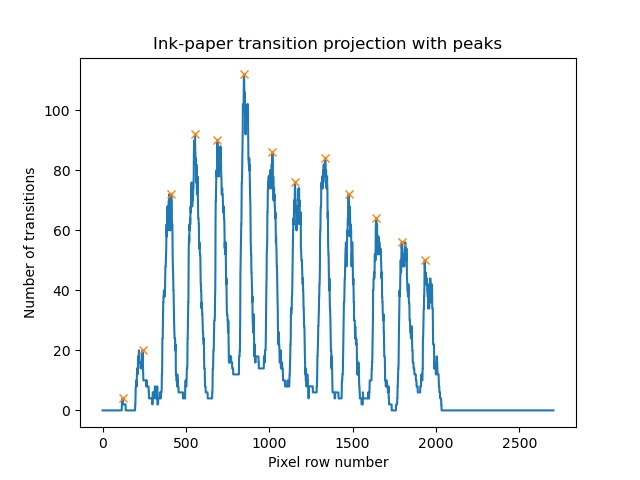
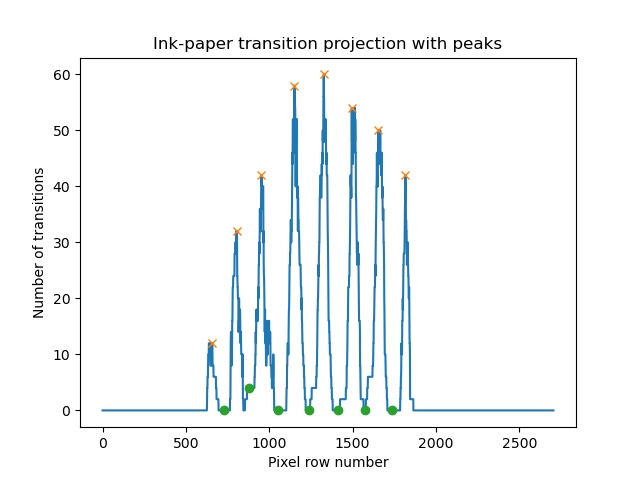
Finding minima through simple heuristic.

diff --git a/Preprocessor/line_segmenter.py b/Preprocessor/line_segmenter.py
@@ -16,6 +16,7 @@ def binarize_image(image):
     :param image: cv2 (opencv-python) image.
     :return: binarized cv2 image.
     """
+
     blur = cv2.GaussianBlur(img, (5, 5), 0)
     ret3, result = cv2.threshold(blur, 0, 255, cv2.THRESH_BINARY + cv2.THRESH_OTSU)
     return result
@@ -27,30 +28,46 @@ def count_transistions(row):
     :param row: row in binarized image.
     :return: number of transitions in row.
     """
+
     return len(np.argwhere(np.diff(row)).squeeze())
 
 
+def find_line_starts(projection):
+    """
+    Finds the start of line segmentation by taking the middle value between peaks.
+    :param projection: list of projection values. Each element corresponds to a row in the original data.
+    :return: list of row indices where segments start in the data.
+    """
+
+    peaks, properties = find_peaks(projection, prominence=1, distance=100)
+    minima = [int((peak + peaks[index+1])/2) for index, peak in enumerate(peaks[:-1])]
+
+    return minima
+
+
 if __name__ == '__main__':
+
     print("Number of processors: ", mp.cpu_count())
 
     # Load and binarize image
-    img = cv2.imread('../data/test-binarized.jpg', 0)
+    img = cv2.imread('../data/test.jpg', 0)
     img_binarized = binarize_image(img)
 
-    # Compute projection
+    # Compute projection & find line starts.
     data = np.array(img_binarized)
     projection = np.apply_along_axis(count_transistions, COLUMNS, data)
-    peaks, properties = find_peaks(projection, prominence=1, distance=100)
+    line_starts = find_line_starts(projection)
 
     # Show projection
     plt.plot(projection)
-    plt.plot(peaks, projection[peaks], "x")
-    plt.title("Ink-paper transition projection with peaks")
+    plt.plot(line_starts, projection[line_starts], "x")
+    plt.title("Ink-paper transition projection with line starts")
     plt.ylabel("Number of transitions")
     plt.xlabel("Pixel row number")
-    plt.savefig("./results/ink-paper-transition-projection-peaks.jpg")
+    plt.savefig("./results/ink-paper-transition-projection-minima.jpg")
     plt.show()
 
     # Add detected lines to image
-    data[peaks] = np.zeros(data.shape[COLUMNS])
-    out_image = Image.fromarray(data).save('./results/test_image_with_peaklines.jpg')
+    line_starts += [start+1 for start in line_starts] + [start-1 for start in line_starts]
+    data[line_starts] = np.zeros(data.shape[COLUMNS])
+    out_segment_image = Image.fromarray(data).save('./results/test_image_with_segmentlines.jpg')
